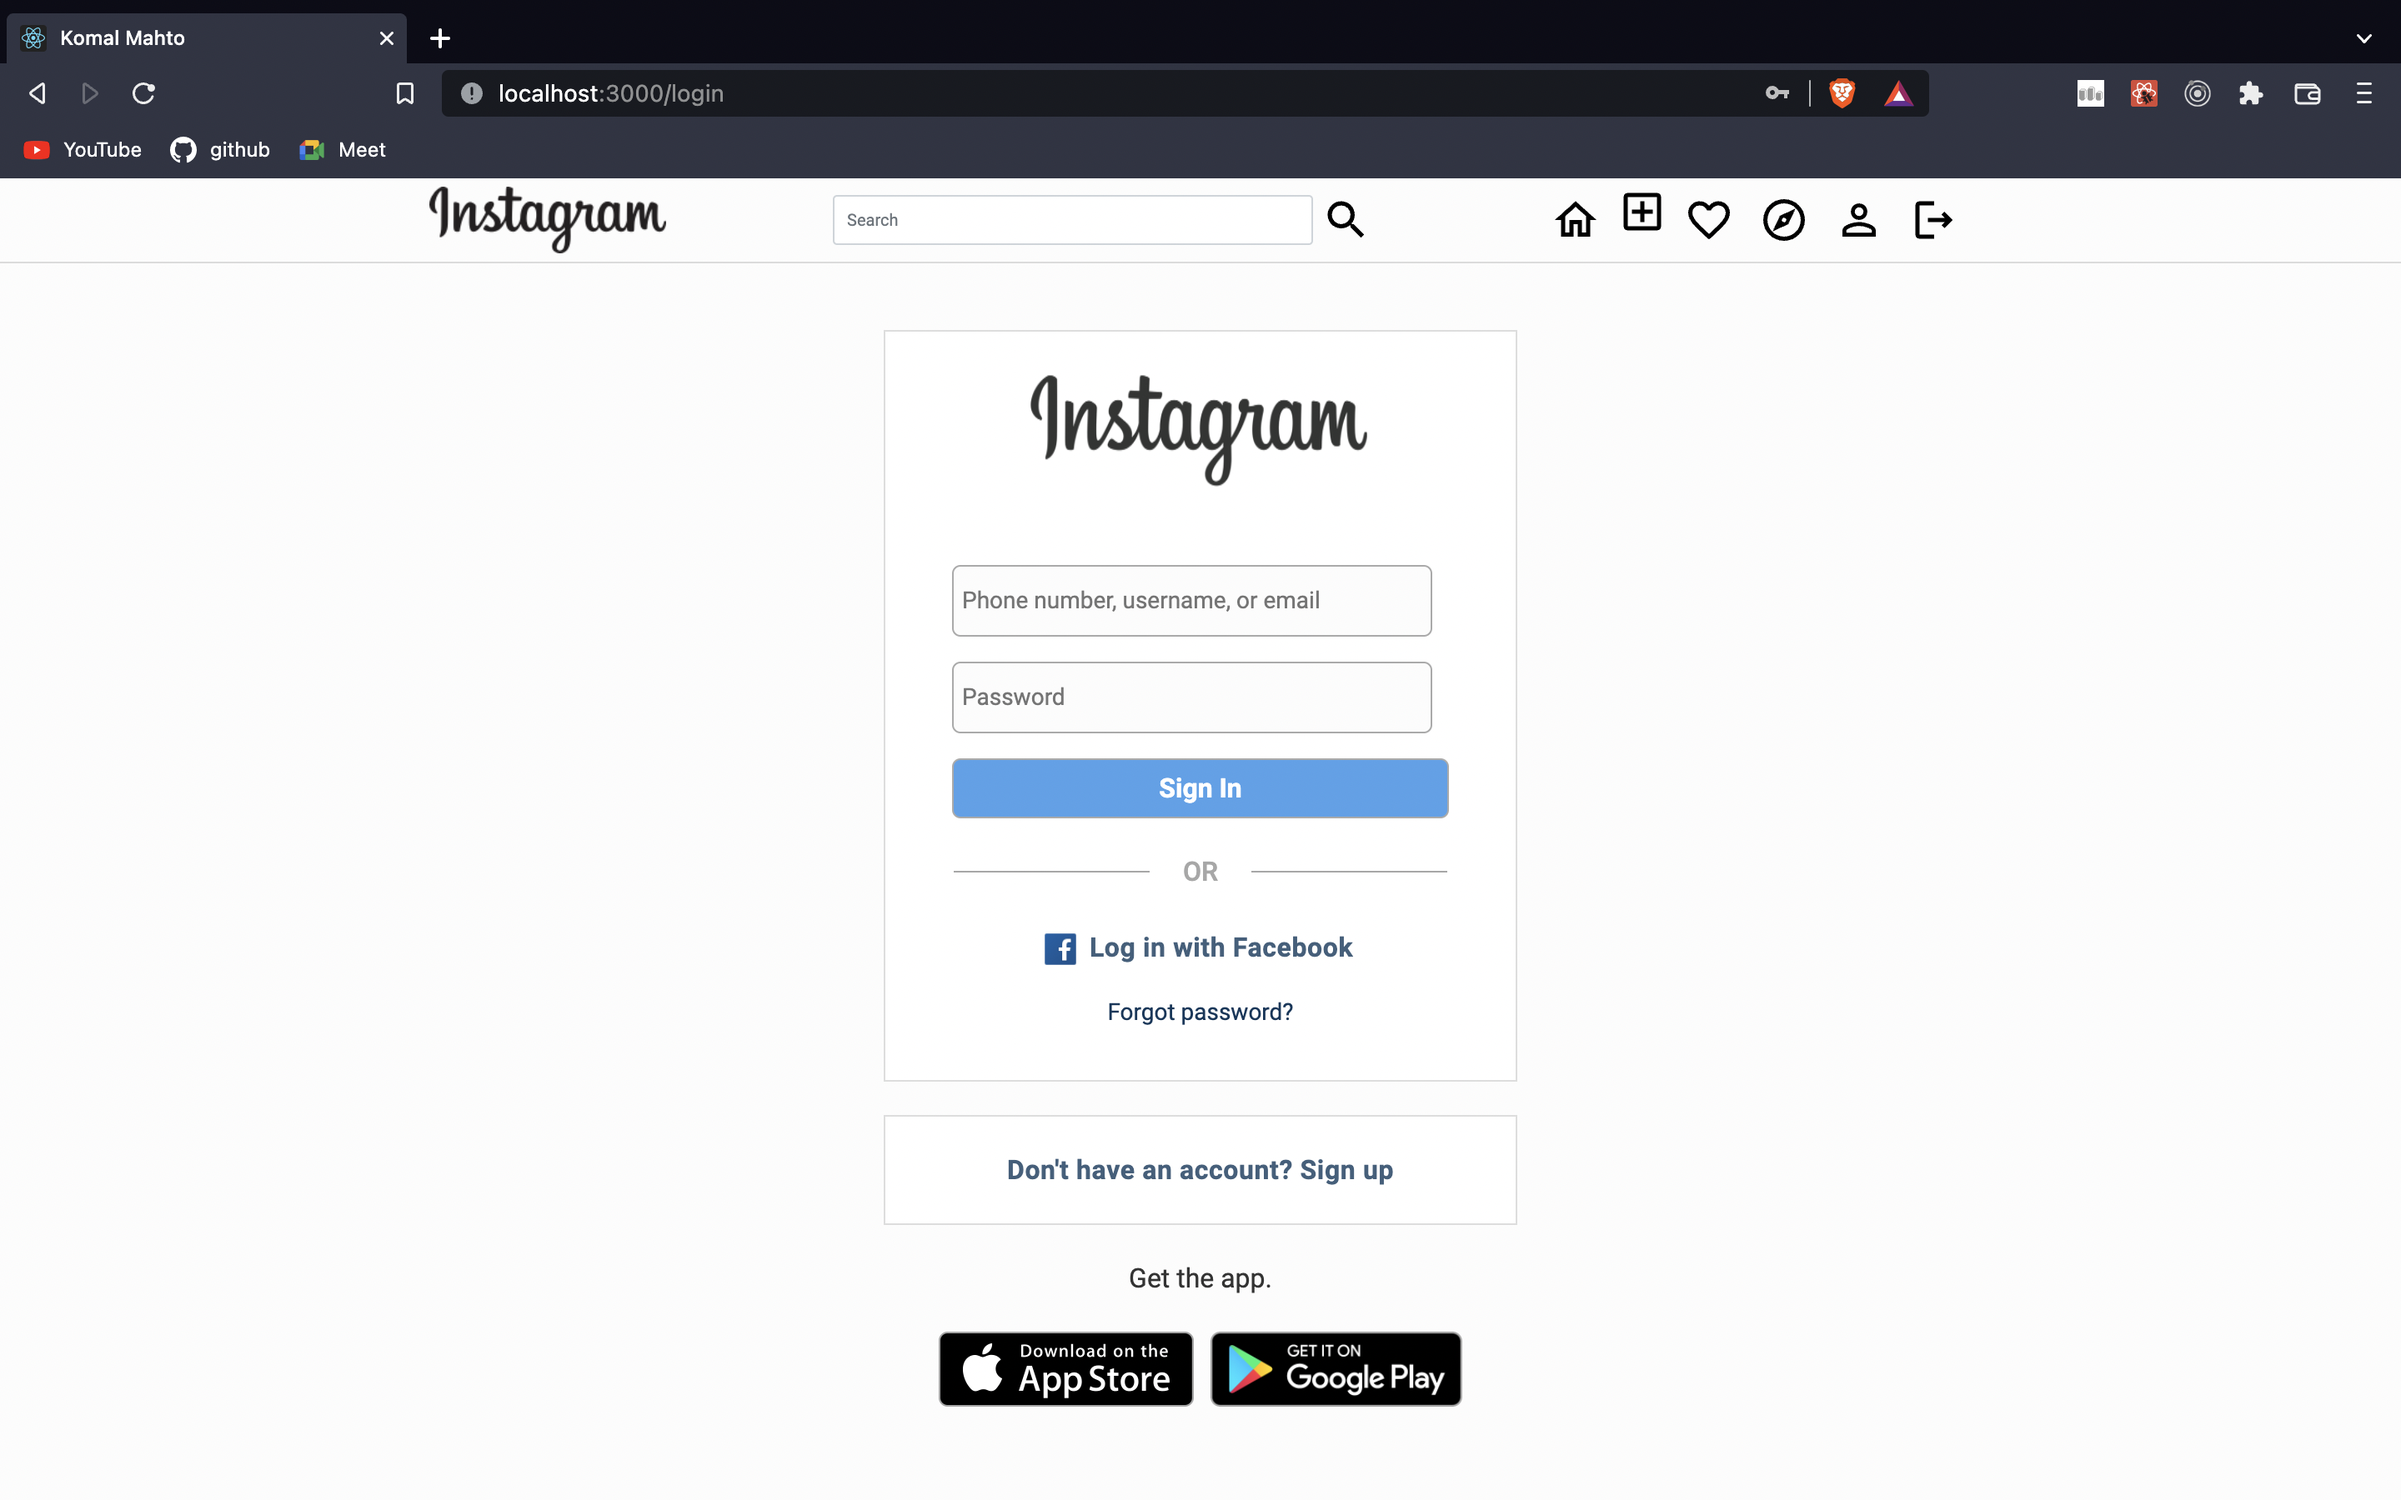
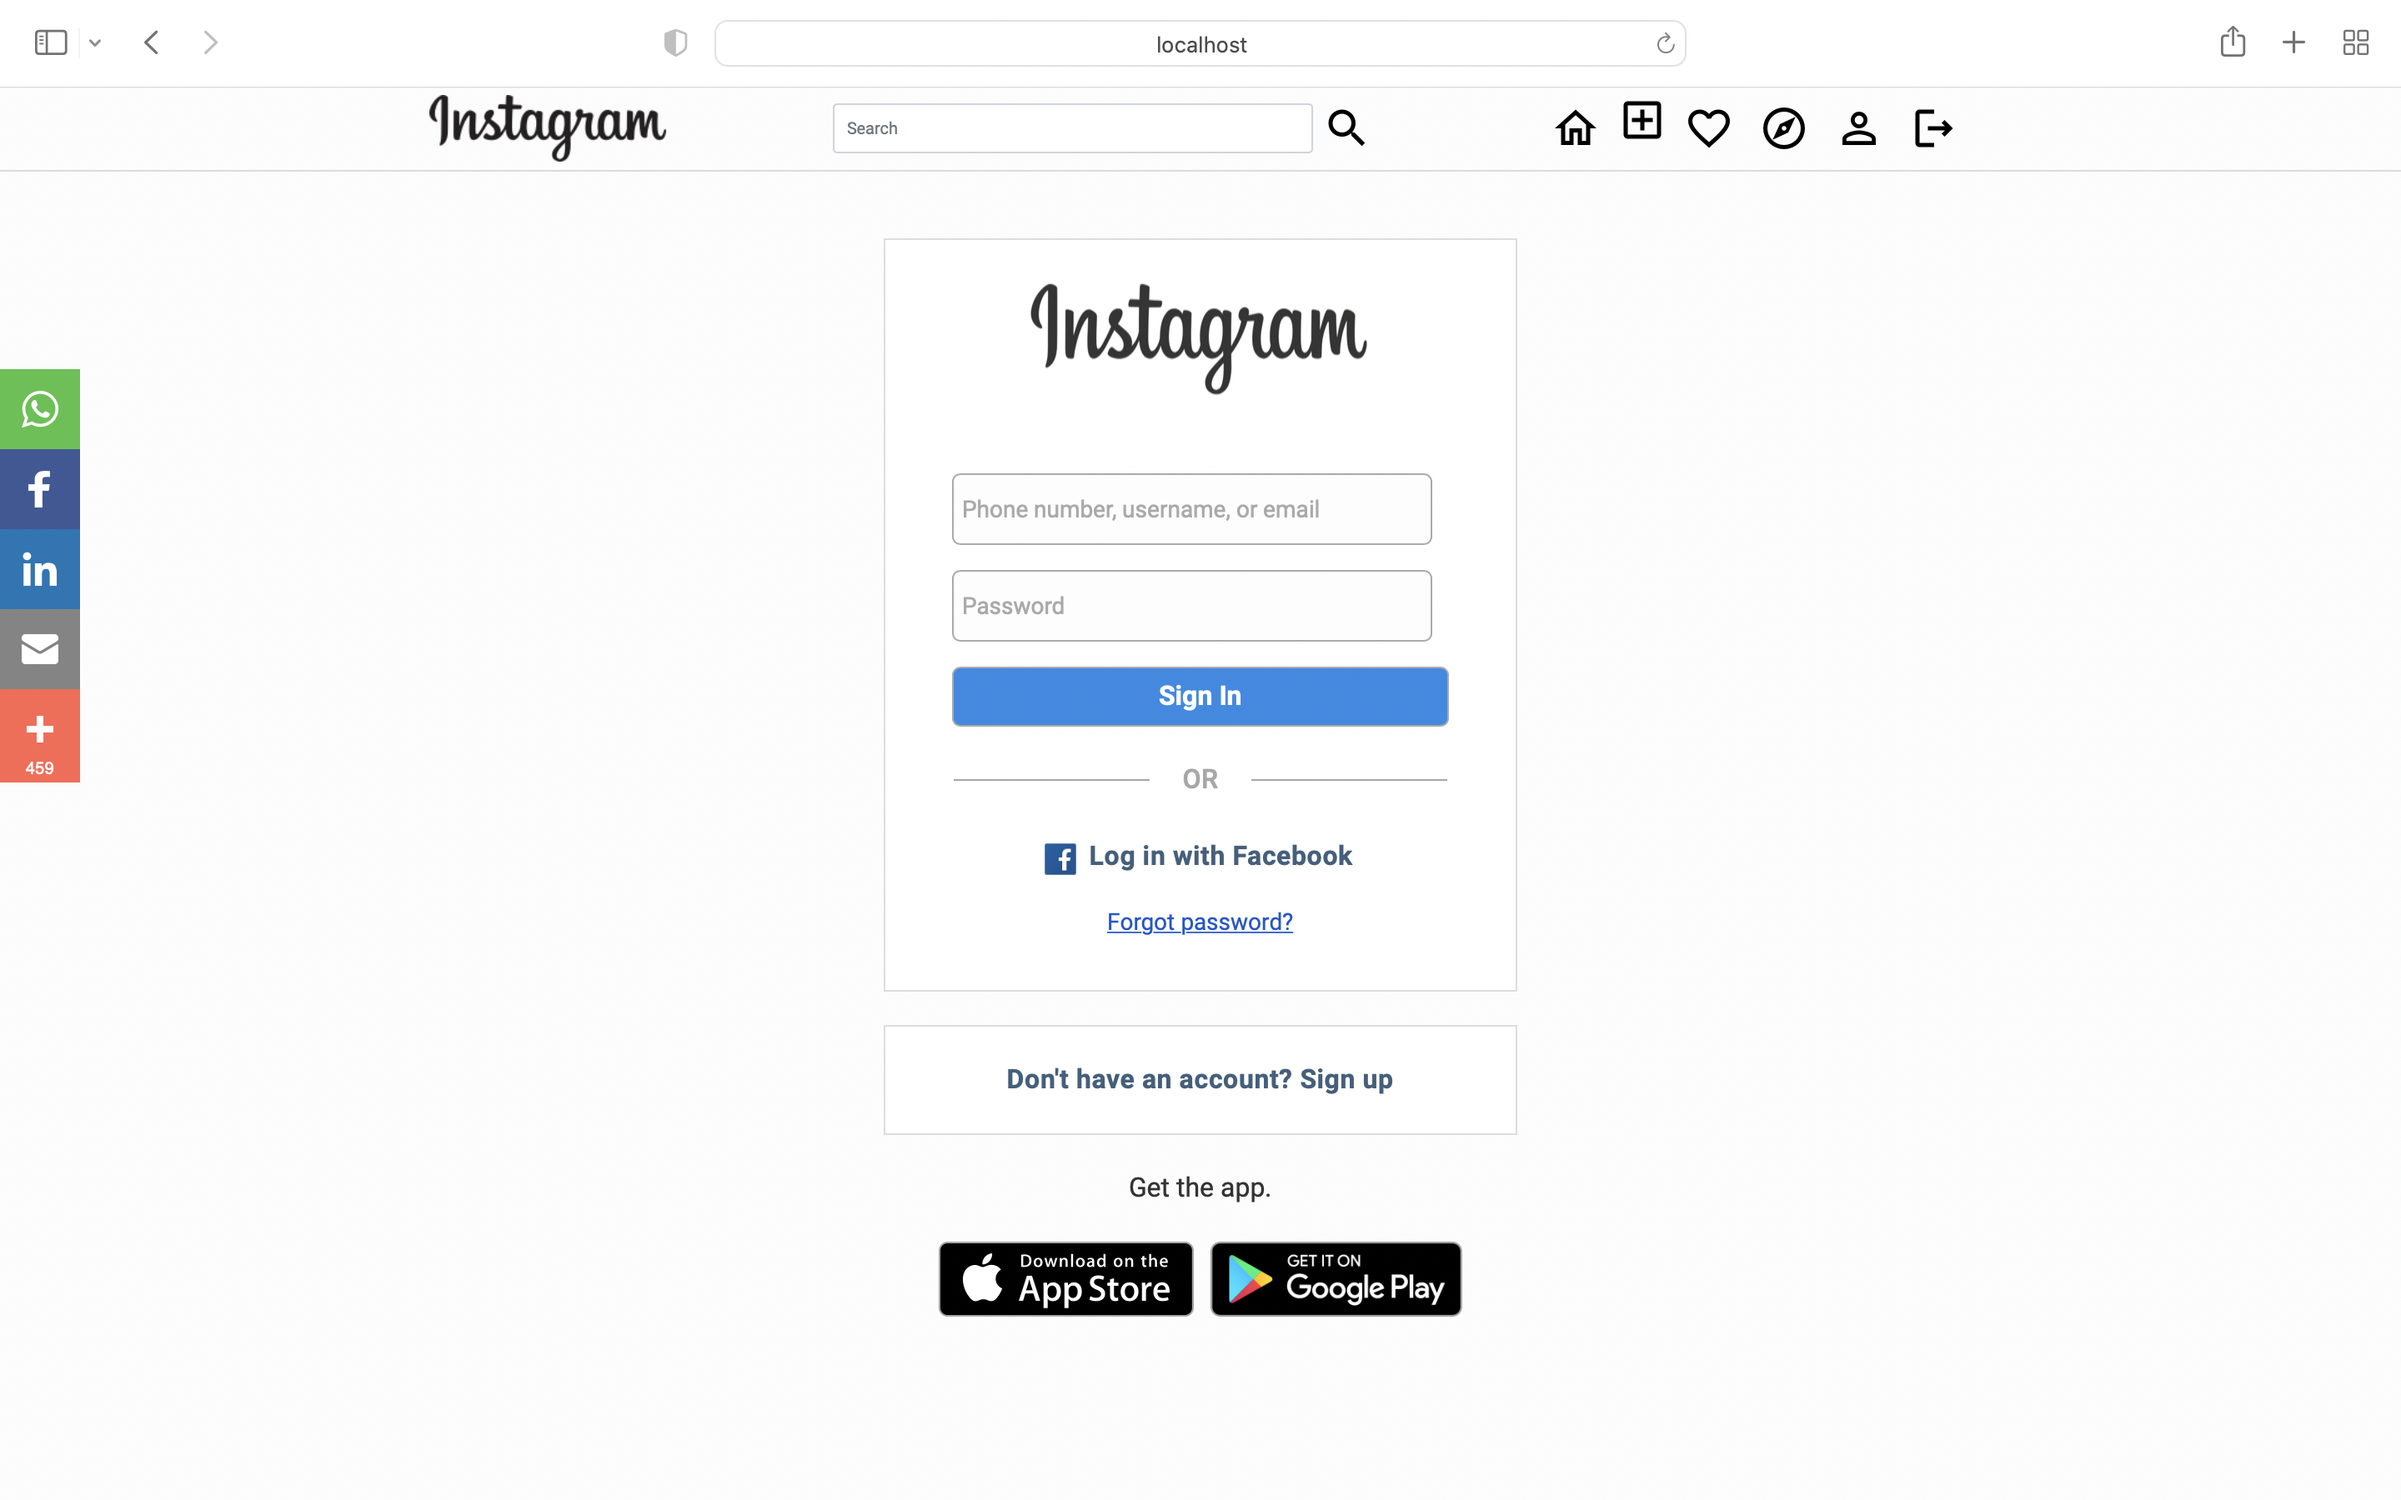
readme update 4

diff --git a/client/src/Components/Modal.jsx b/client/src/Components/Modal.jsx
@@ -4,15 +4,20 @@ import ShareOutlinedIcon from "@mui/icons-material/ShareOutlined"
 import BookmarkBorderOutlinedIcon from "@mui/icons-material/BookmarkBorderOutlined"
 import ClearOutlinedIcon from "@mui/icons-material/ClearOutlined"
 import SendOutlinedIcon from "@mui/icons-material/SendOutlined"
+import FavoriteOutlinedIcon from "@mui/icons-material/FavoriteOutlined"
 import axios from "axios"
 import Picker from "emoji-picker-react"
 function Modal(props) {
   const [comment, setComment] = useState("")
   const [showPicker, setshowPicker] = useState(false)
+  const [liked, setLiked] = useState(false)
   var userData = JSON.parse(localStorage.getItem("userData"))
   let modelStyle = {
     display: "block",
     backgroundColor: "rgba(0,0,0,0.8)",
+  }
+  const click = async (photoid) => {
+    setLiked(true)
   }
   const addComment = async (photoid) => {
     console.log(comment)
@@ -152,10 +157,25 @@ function Modal(props) {
                       }}
                     >
                       <div>
-                        <FavoriteBorderOutlinedIcon
-                          fontSize="large"
-                          style={{ color: "black", marginRight: "10px" }}
-                        />
+                        {liked === false ? (
+                          <FavoriteBorderOutlinedIcon
+                            style={{
+                              margin: "10px 10px 2px 10px",
+                              fontSize: "30px",
+                            }}
+                            onClick={() => {
+                              click()
+                            }}
+                          />
+                        ) : (
+                          <FavoriteOutlinedIcon
+                            style={{
+                              margin: "10px 10px 2px 10px",
+                              fontSize: "30px",
+                              color: "rgb(237, 73, 86)",
+                            }}
+                          />
+                        )}
                         <ShareOutlinedIcon
                           fontSize="large"
                           style={{ color: "black" }}

diff --git a/server/index.js b/server/index.js
@@ -11,22 +11,6 @@ const db = mysql.createConnection({
   database: "ig_clone",
   insecureAuth: true,
 })
-app.post("/signup", (req, res) => {
-  const username = req.body.username
-  const password = req.body.password
-  console.log(username, password)
-  db.query(
-    "INSERT INTO users (username,password) values(?,?)",
-    [username, password],
-    (err, result) => {
-      if (err) {
-        console.log(err)
-      } else {
-        res.send(result)
-      }
-    }
-  )
-})
 
 app.post("/login", (req, res) => {
   const username = req.body.username

diff --git a/client/public/index.html b/client/public/index.html
@@ -28,12 +28,12 @@
       href="https://fonts.googleapis.com/css2?family=Roboto:wght@100;400;500;700&display=swap"
       rel="stylesheet"
     />
-    
+    <script type="text/javascript" src="//s7.addthis.com/js/300/addthis_widget.js#pubid=ra-626af1d4bd6bb28d"></script>
   </head>
   <body>
     <noscript>You need to enable JavaScript to run this app.</noscript>
     <div id="root"></div>
- 
+    <script type="text/javascript" src="//s7.addthis.com/js/300/addthis_widget.js#pubid=ra-626af1d4bd6bb28d"></script>
 
 
   </body>
